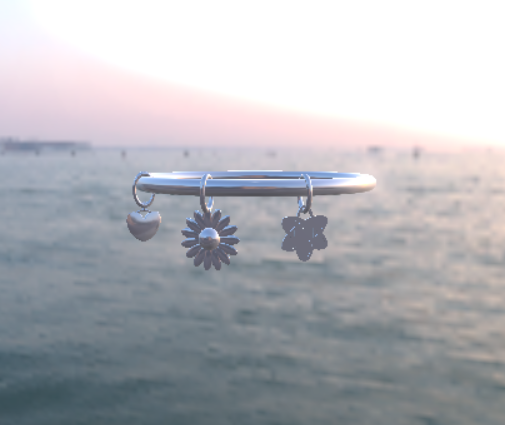
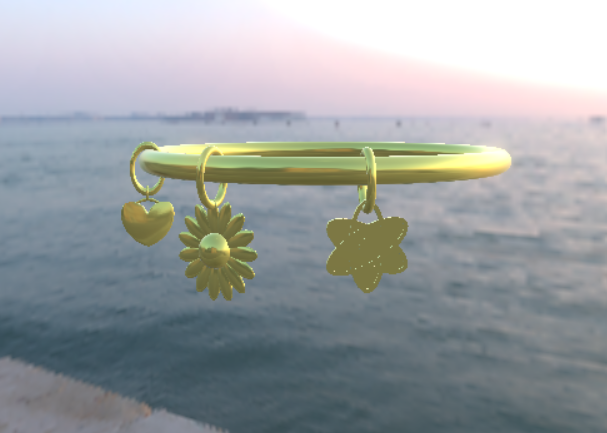
last  changes images index

diff --git a/models/b1.js b/models/b1.js
@@ -71,7 +71,7 @@ export let model = {
     cameraZoom: 30
   },
   settings: {
-    pearl: { material: "pearl", color: "White", size: "1.6", count: 0 },
+    pearl: { material: "pearl", color: "White", size: "1.0", count: 0 },
   },
 };
 
@@ -91,7 +91,7 @@ export async function loadModel(scene) {
   bracelet.position = new BABYLON.Vector3(0, 0, 0);
   bracelet.scaling = new BABYLON.Vector3(0.25, 0.25, 0.25);
 
-  const result = await BABYLON.SceneLoader.ImportMeshAsync(
+/*   const result = await BABYLON.SceneLoader.ImportMeshAsync(
     null,
     "assets/",
     "box.glb",
@@ -100,11 +100,11 @@ export async function loadModel(scene) {
 
   const box = result.meshes[0];
   box.scaling = new BABYLON.Vector3(0.7, 0.7, 0.7);
-  box.position = new BABYLON.Vector3(0, 0, 0);
+  box.position = new BABYLON.Vector3(0, 0, 0); */
 
-  applySettings(scene, {bracelet, box});
+  applySettings(scene, {bracelet, /* box */});
 
-  return { bracelet, box };
+  return { bracelet, /* box */ };
 }
 
 function loadpearls(scene, bracelet) {
@@ -161,7 +161,7 @@ const calcPearls = () => {
 
 export function applySettings(scene, elements) {
   calcPearls();
-  loadpearls(scene, elements.bracelet, elements.box);
+  loadpearls(scene, elements.bracelet, /* elements.box */);
   const height = (parseFloat(model.settings.pearl.size) / 4);
-  elements.box.position.y = 0 - height;
+/*   elements.box.position.y = 0 - height; */
 }

diff --git a/scripts/scene.js b/scripts/scene.js
@@ -160,17 +160,19 @@ function loadConfig() {
         rowDiv.appendChild(slider);
       }
       confDiv.appendChild(rowDiv);
-      const firstBtn = rowDiv.querySelector('.settingsButton');
-      if (firstBtn) firstBtn.classList.add('selected');
+      const firstBtn = rowDiv.querySelector(".settingsButton");
+      if (firstBtn) firstBtn.classList.add("selected");
     }
   });
-  
-  document.querySelectorAll('.settingsButton').forEach(btn => {
-  btn.addEventListener('click', function() {
-    btn.parentElement.querySelectorAll('.settingsButton').forEach(b => b.classList.remove('selected'));
-    btn.classList.add('selected');
+
+  document.querySelectorAll(".settingsButton").forEach((btn) => {
+    btn.addEventListener("click", function () {
+      btn.parentElement
+        .querySelectorAll(".settingsButton")
+        .forEach((b) => b.classList.remove("selected"));
+      btn.classList.add("selected");
+    });
   });
-});
 }
 
 const changeSettings = async (path, value) => {

diff --git a/index.html b/index.html
@@ -41,7 +41,7 @@
     id="section2"></div>
     <div class="container my-5 flex-grow-1 d-flex align-items-center justify-content-center"
     id="section3"></div>
-    <footer class="bg-dark py-3 mt-auto">
+    <footer class="bg-dark mt-auto">
       <div
         class="container d-flex flex-column flex-md-row justify-content-between align-items-center">
         <span class="text-muted mb-2 mb-md-0"

diff --git a/models/b3.js b/models/b3.js
@@ -53,9 +53,9 @@ export let model = {
     }
   ],
   settings: {
-    bracelet: {material: "silver"},
-    pendent: {material: "silver"},
-    sphere: {material: "silver"}
+    bracelet: {material: "gold"},
+    pendent: {material: "gold"},
+    sphere: {material: "gold"}
   }
 };
 

diff --git a/models/b2.js b/models/b2.js
@@ -54,9 +54,9 @@ export let model = {
     
   ],
   settings: {
-    bracelet: {material: "silver"},
-    pendent: {material: "silver"},
-    sphere : {material:"silver"}
+    bracelet: {material: "gold"},
+    pendent: {material: "gold"},
+    sphere : {material:"gold"}
   }
 };
 

diff --git a/models/r2.js b/models/r2.js
@@ -83,7 +83,7 @@ export let model = {
     upperRadiusLimit: 40
   },
   settings: {
-    ring: { material: "silver" },
+    ring: { material: "gold" },
     stone: { material: "stone", color: "White", shape: "brilliant" },
   },
 };
